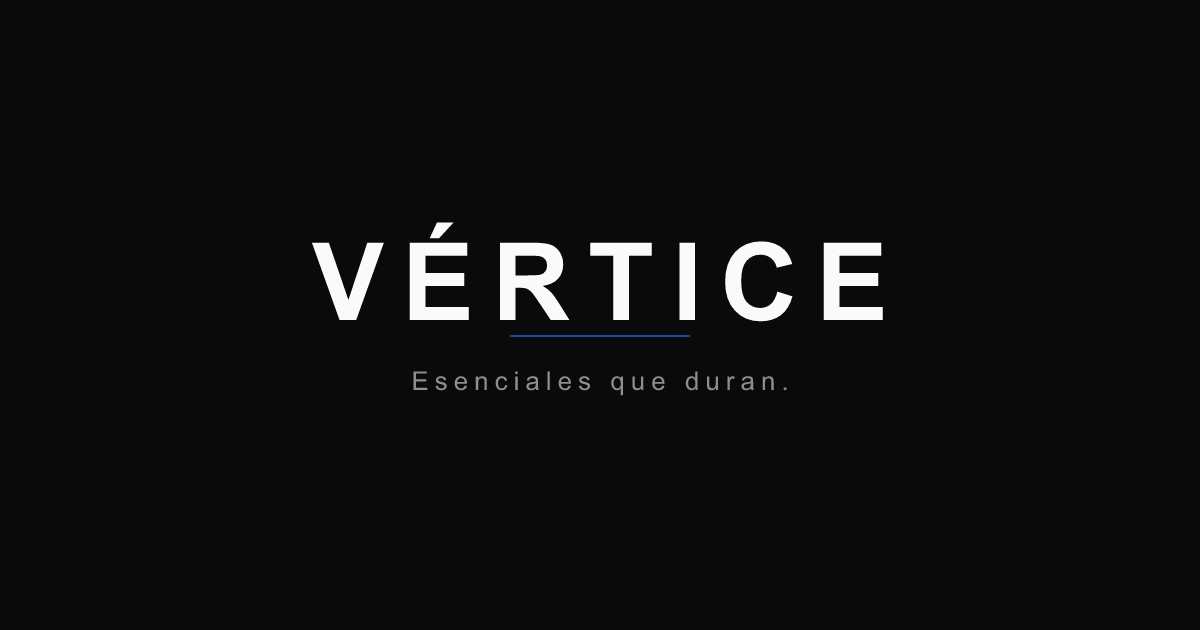
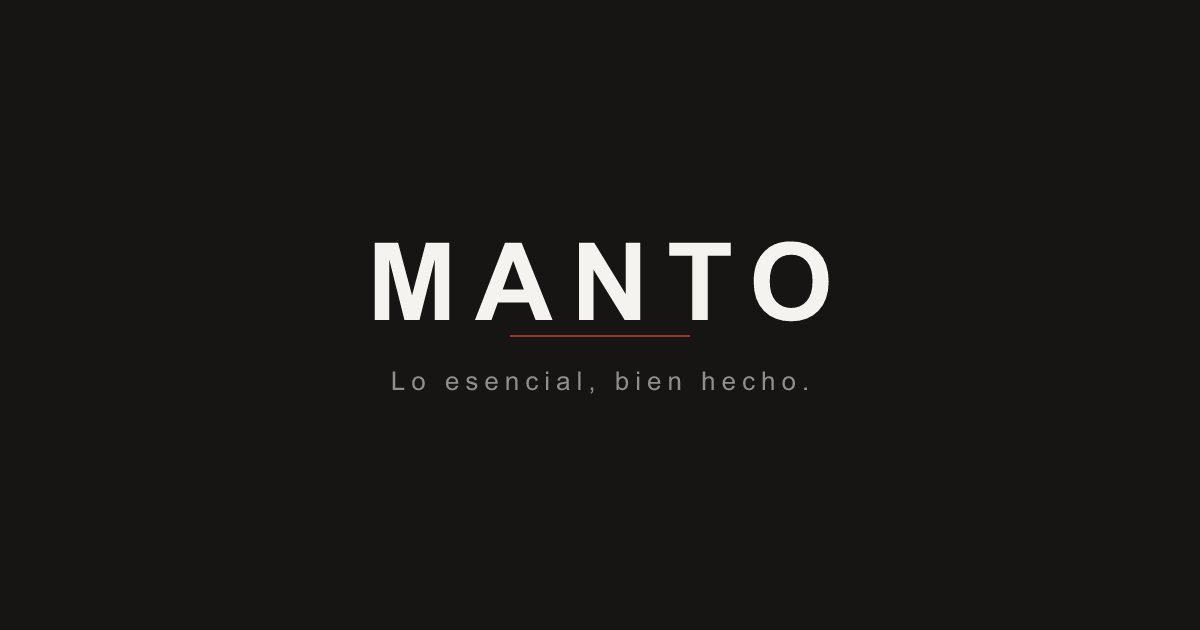
Agregué imagenes

Changed region(s): [[0.2467, 0.3619, 0.74, 0.5429], [0.3392, 0.573, 0.6783, 0.6333]]

diff --git a/src/config/brand.js b/src/config/brand.js
@@ -17,28 +17,28 @@ export const brand = {
   demoBanner: 'Demo — pagos simulados, no se procesan transacciones reales.',
 
   // --- Identidad ---
-  name: 'VÉRTICE',
+  name: 'MANTO',
   // Logo: por simplicidad usamos un wordmark tipográfico (ver componente Logo).
   // Para usar un logo en imagen, reemplazá el componente src/components/Logo.jsx
-  tagline: 'Esenciales que duran.',
+  tagline: 'Lo esencial, bien hecho.',
   manifesto:
-    'Diseñamos prendas que sobreviven a las temporadas. Materiales nobles, cortes precisos y cero ruido. Menos, pero mejor.',
+    'Hacemos ropa para tu día real: el que arranca temprano y no para. Cómoda sin ser descuidada, simple sin ser aburrida. Lo que te ponés sin pensarlo dos veces.',
 
   // --- SEO / metadatos ---
   seo: {
-    titleSuffix: 'VÉRTICE',
+    titleSuffix: 'MANTO',
     defaultDescription:
-      'VÉRTICE — indumentaria urbana premium. Esenciales que duran.',
+      'MANTO — Indumentaria urbana y athleisure',
   },
 
   // --- Paleta (alto contraste, minimalista) ---
   // Estos valores son la referencia; los tokens de Tailwind están en index.css.
   colors: {
-    bg: '#FAFAFA', // off-white
-    ink: '#0A0A0A', // negro
-    gray: '#6B6B6B', // gris neutro
-    line: '#E5E5E5', // bordes / líneas
-    accent: '#2563EB', // acento sobrio (usar con moderación)
+    bg: '#F4F3F0', // off-white cálido
+    ink: '#161514', // negro cálido
+    gray: '#707070', // gris neutro
+    line: '#E4E3DF', // bordes / líneas
+    accent: '#C24E2C', // terracota
   },
 
   // --- Tipografía ---
@@ -62,7 +62,7 @@ export const brand = {
     instagram: 'https://instagram.com',
     tiktok: 'https://tiktok.com',
   },
-  contactEmail: '[email redacted]',
+  contactEmail: '[email redacted]',
 
   // --- Envíos / textos comerciales reutilizables ---
   shipping: {
@@ -73,9 +73,9 @@ export const brand = {
   // --- Trust badges (footer) ---
   // RE-SKIN: adaptá textos para la marca del cliente.
   trustBadges: [
-    { icon: 'truck', text: 'Envíos a todo el país' },
-    { icon: 'refresh', text: 'Cambios sin cargo' },
-    { icon: 'shield', text: 'Compra protegida' },
+    { title: 'Despacho en 24 h', text: 'Llegamos a todo el país en 2 a 5 días hábiles.' },
+    { title: 'Cambios sin vueltas', text: 'Tenés 30 días para cambiar de idea.' },
+    { title: 'Compra protegida', text: 'Pago cifrado y seguimiento de tu pedido de punta a punta.' },
   ],
 
   // --- Roadmap real (panel de demo) ---

diff --git a/src/components/Footer.jsx b/src/components/Footer.jsx
@@ -1,26 +1,10 @@
 import { Link } from 'react-router-dom'
 import { brand } from '../config/brand.js'
-import { TruckIcon, RefreshIcon, ShieldIcon } from './icons.jsx'
-
-const TRUST_ICONS = { truck: TruckIcon, refresh: RefreshIcon, shield: ShieldIcon }
 
 export default function Footer() {
   return (
     <footer className="mt-24 border-t border-line">
       <div className="mx-auto max-w-7xl px-4 py-16 sm:px-6 lg:px-8">
-        {/* Trust badges */}
-        <div className="mb-12 flex flex-col items-center gap-6 border-b border-line pb-12 sm:flex-row sm:justify-center sm:gap-16">
-          {brand.trustBadges.map((badge) => {
-            const Icon = TRUST_ICONS[badge.icon]
-            return (
-              <div key={badge.text} className="flex items-center gap-3">
-                {Icon && <Icon width={20} height={20} className="shrink-0 text-gray" />}
-                <span className="text-sm text-ink">{badge.text}</span>
-              </div>
-            )
-          })}
-        </div>
-
         <div className="grid gap-10 md:grid-cols-4">
           {/* Marca */}
           <div className="md:col-span-1">

diff --git a/index.html b/index.html
@@ -4,7 +4,7 @@
     <meta charset="UTF-8" />
     <link rel="icon" type="image/svg+xml" href="/favicon.svg" />
     <meta name="viewport" content="width=device-width, initial-scale=1.0, maximum-scale=1, user-scalable=no" />
-    <meta name="theme-color" content="#FAFAFA" />
+    <meta name="theme-color" content="#F4F3F0" />
 
     <!-- Google Fonts: Space Grotesk (display) + Inter (cuerpo) -->
     <!-- RE-SKIN: si cambiás las fuentes en src/config/brand.js, actualizá estos links -->
@@ -16,18 +16,18 @@
     />
 
     <!-- SEO base (cada página lo sobreescribe vía componente <Seo/>) -->
-    <title>VÉRTICE — Esenciales que duran.</title>
+    <title>MANTO — Indumentaria urbana y athleisure</title>
     <meta
       name="description"
-      content="VÉRTICE — indumentaria urbana premium. Esenciales que duran. Remeras, buzos, camperas y más."
+      content="Indumentaria urbana y athleisure de buen corte y mejor tela: remeras, buzos, camperas y pantalones para moverte por la ciudad. Envíos a todo el país."
     />
 
     <!-- Open Graph — RE-SKIN: reemplazá la URL base cuando deployés a producción -->
     <meta property="og:type" content="website" />
-    <meta property="og:title" content="VÉRTICE — Esenciales que duran." />
+    <meta property="og:title" content="MANTO — Indumentaria urbana y athleisure" />
     <meta
       property="og:description"
-      content="VÉRTICE — indumentaria urbana premium. Esenciales que duran. Remeras, buzos, camperas y más."
+      content="Indumentaria urbana y athleisure de buen corte y mejor tela: remeras, buzos, camperas y pantalones para moverte por la ciudad. Envíos a todo el país."
     />
     <meta property="og:image" content="https://e-commerce-levi-angelino.vercel.app/og-image.png" />
     <meta property="og:image:width" content="1200" />
@@ -37,10 +37,10 @@
 
     <!-- Twitter / X Card -->
     <meta name="twitter:card" content="summary_large_image" />
-    <meta name="twitter:title" content="VÉRTICE — Esenciales que duran." />
+    <meta name="twitter:title" content="MANTO — Indumentaria urbana y athleisure" />
     <meta
       name="twitter:description"
-      content="VÉRTICE — indumentaria urbana premium. Esenciales que duran. Remeras, buzos, camperas y más."
+      content="Indumentaria urbana y athleisure de buen corte y mejor tela: remeras, buzos, camperas y pantalones para moverte por la ciudad. Envíos a todo el país."
     />
     <meta name="twitter:image" content="https://e-commerce-levi-angelino.vercel.app/og-image.png" />
   </head>

diff --git a/src/index.css b/src/index.css
@@ -6,11 +6,11 @@
    Cada token genera utilidades: bg-bg, text-ink, border-line, text-accent, etc.
    ========================================================================== */
 @theme {
-  --color-bg: #fafafa;
-  --color-ink: #0a0a0a;
-  --color-gray: #6b6b6b;
-  --color-line: #e5e5e5;
-  --color-accent: #2563eb;
+  --color-bg: #F4F3F0;
+  --color-ink: #161514;
+  --color-gray: #707070;
+  --color-line: #E4E3DF;
+  --color-accent: #C24E2C;
 
   --font-display: 'Space Grotesk', sans-serif;
   --font-body: 'Inter', sans-serif;

diff --git a/src/pages/Home.jsx b/src/pages/Home.jsx
@@ -70,7 +70,7 @@ export default function Home() {
       <section className="relative h-[88vh] min-h-[520px] w-full overflow-hidden">
         <img
           src={HERO_IMG}
-          alt="Campaña editorial VÉRTICE"
+          alt={`Campaña editorial ${brand.name}`}
           className="absolute inset-0 h-full w-full object-cover"
         />
         <div className="absolute inset-0 bg-gradient-to-t from-ink/70 via-ink/20 to-transparent" />
@@ -176,7 +176,7 @@ export default function Home() {
           <div className="hidden h-full md:block">
             <ProductImage
               src="https://images.unsplash.com/photo-1483985988355-763728e1935b?auto=format&fit=crop&w=1000&q=80"
-              alt="Sumate a la comunidad VÉRTICE"
+              alt={`Sumate a la comunidad ${brand.name}`}
               ratio="aspect-[4/3] h-full"
             />
           </div>

diff --git a/src/pages/Orders.jsx b/src/pages/Orders.jsx
@@ -5,7 +5,7 @@ import Seo from '../components/Seo.jsx'
 import Button from '../components/ui/Button.jsx'
 import { useAuthStore, isAuthenticated } from '../store/authStore.js'
 import { useUiStore } from '../store/uiStore.js'
-import { formatPrice } from '../config/brand.js'
+import { formatPrice, brand } from '../config/brand.js'
 import api from '../lib/api.js'
 
 const STATUS_LABELS = {
@@ -74,7 +74,7 @@ export default function Orders() {
 
   return (
     <PageTransition>
-      <Seo title="Mis pedidos" description="Historial de compras en VÉRTICE." />
+      <Seo title="Mis pedidos" description={`Historial de compras en ${brand.name}.`} />
 
       <div className="mx-auto max-w-3xl px-4 py-12 sm:px-6 lg:px-8">
         <h1 className="mb-8 text-3xl font-bold tracking-tight">Mis pedidos</h1>

diff --git a/src/pages/Catalog.jsx b/src/pages/Catalog.jsx
@@ -16,6 +16,7 @@ import {
   getPriceBounds,
 } from '../lib/catalog.js'
 import { useUiStore } from '../store/uiStore.js'
+import { brand } from '../config/brand.js'
 
 const SORTS = [
   { value: 'nuevos', label: 'Novedades' },
@@ -109,7 +110,7 @@ export default function Catalog() {
     <PageTransition>
       <Seo
         title="Tienda"
-        description="Explorá toda la colección VÉRTICE: remeras, buzos, camperas, pantalones y accesorios."
+        description={`Explorá toda la colección ${brand.name}: remeras, buzos, camperas, pantalones y accesorios.`}
       />
 
       <div className="mx-auto max-w-7xl px-4 py-10 sm:px-6 lg:px-8">

diff --git a/src/pages/Checkout.jsx b/src/pages/Checkout.jsx
@@ -137,7 +137,7 @@ export default function Checkout() {
 
   return (
     <PageTransition>
-      <Seo title="Checkout" description="Finalizá tu compra en VÉRTICE." />
+      <Seo title="Checkout" description={`Finalizá tu compra en ${brand.name}.`} />
 
       <div className="mx-auto max-w-7xl px-4 py-10 sm:px-6 lg:px-8">
         <h1 className="mb-8 text-3xl font-bold tracking-tight">Finalizar compra</h1>